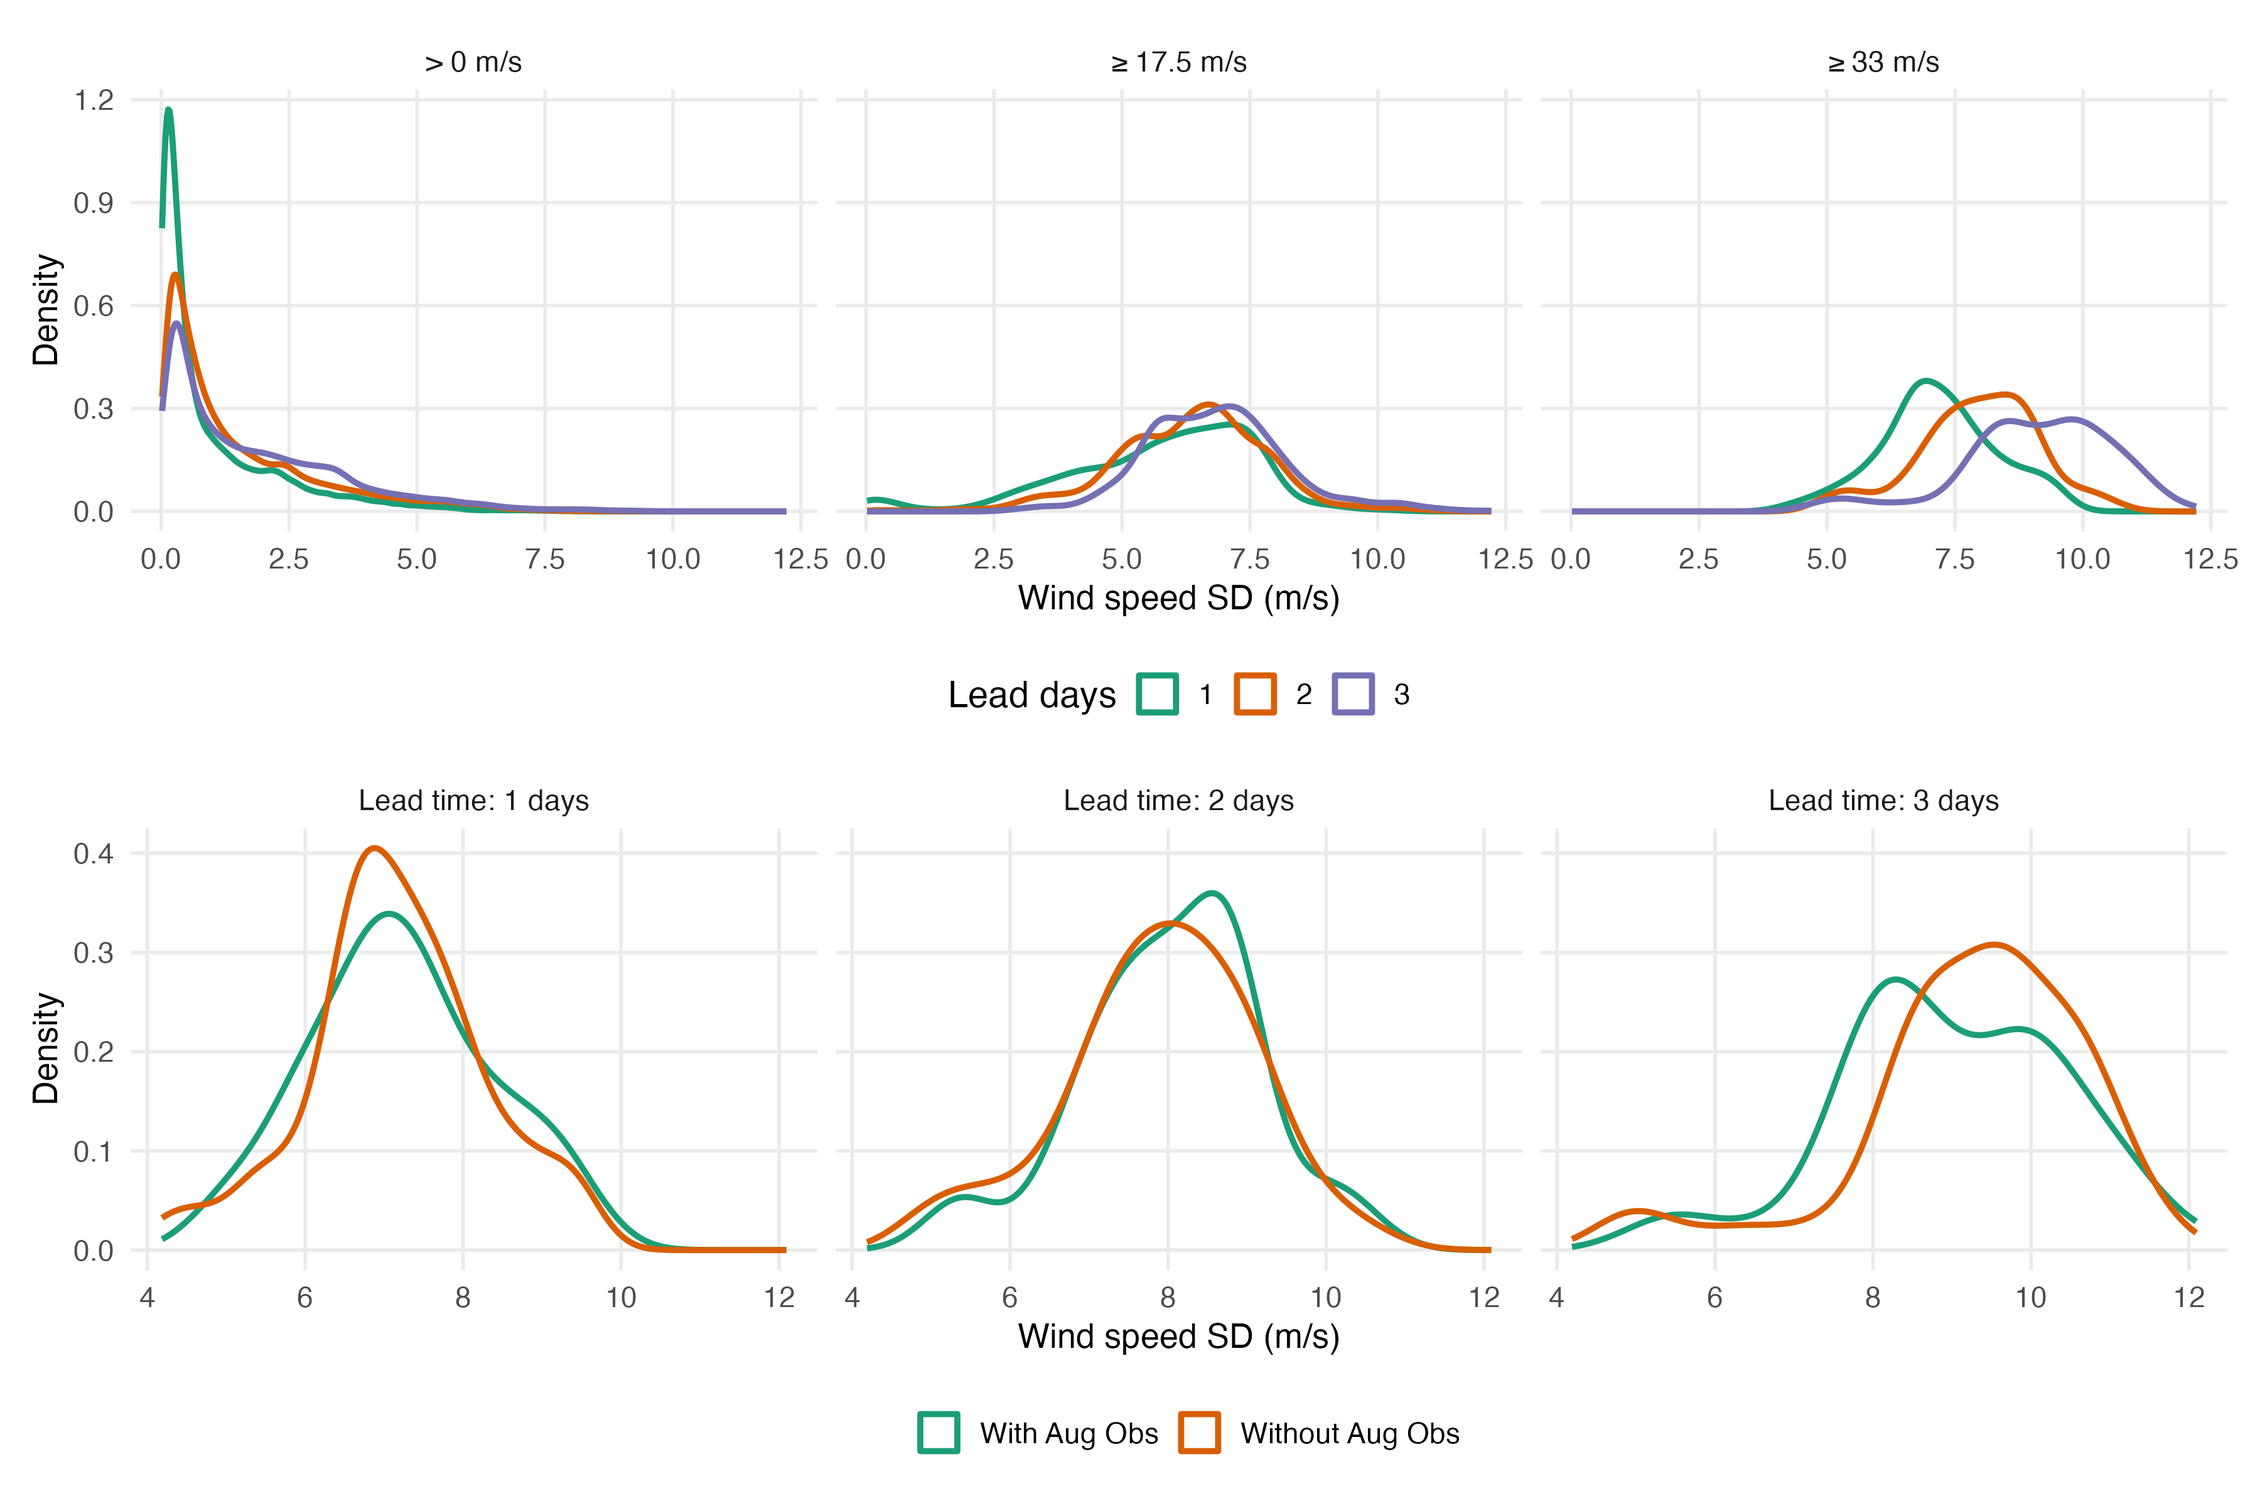
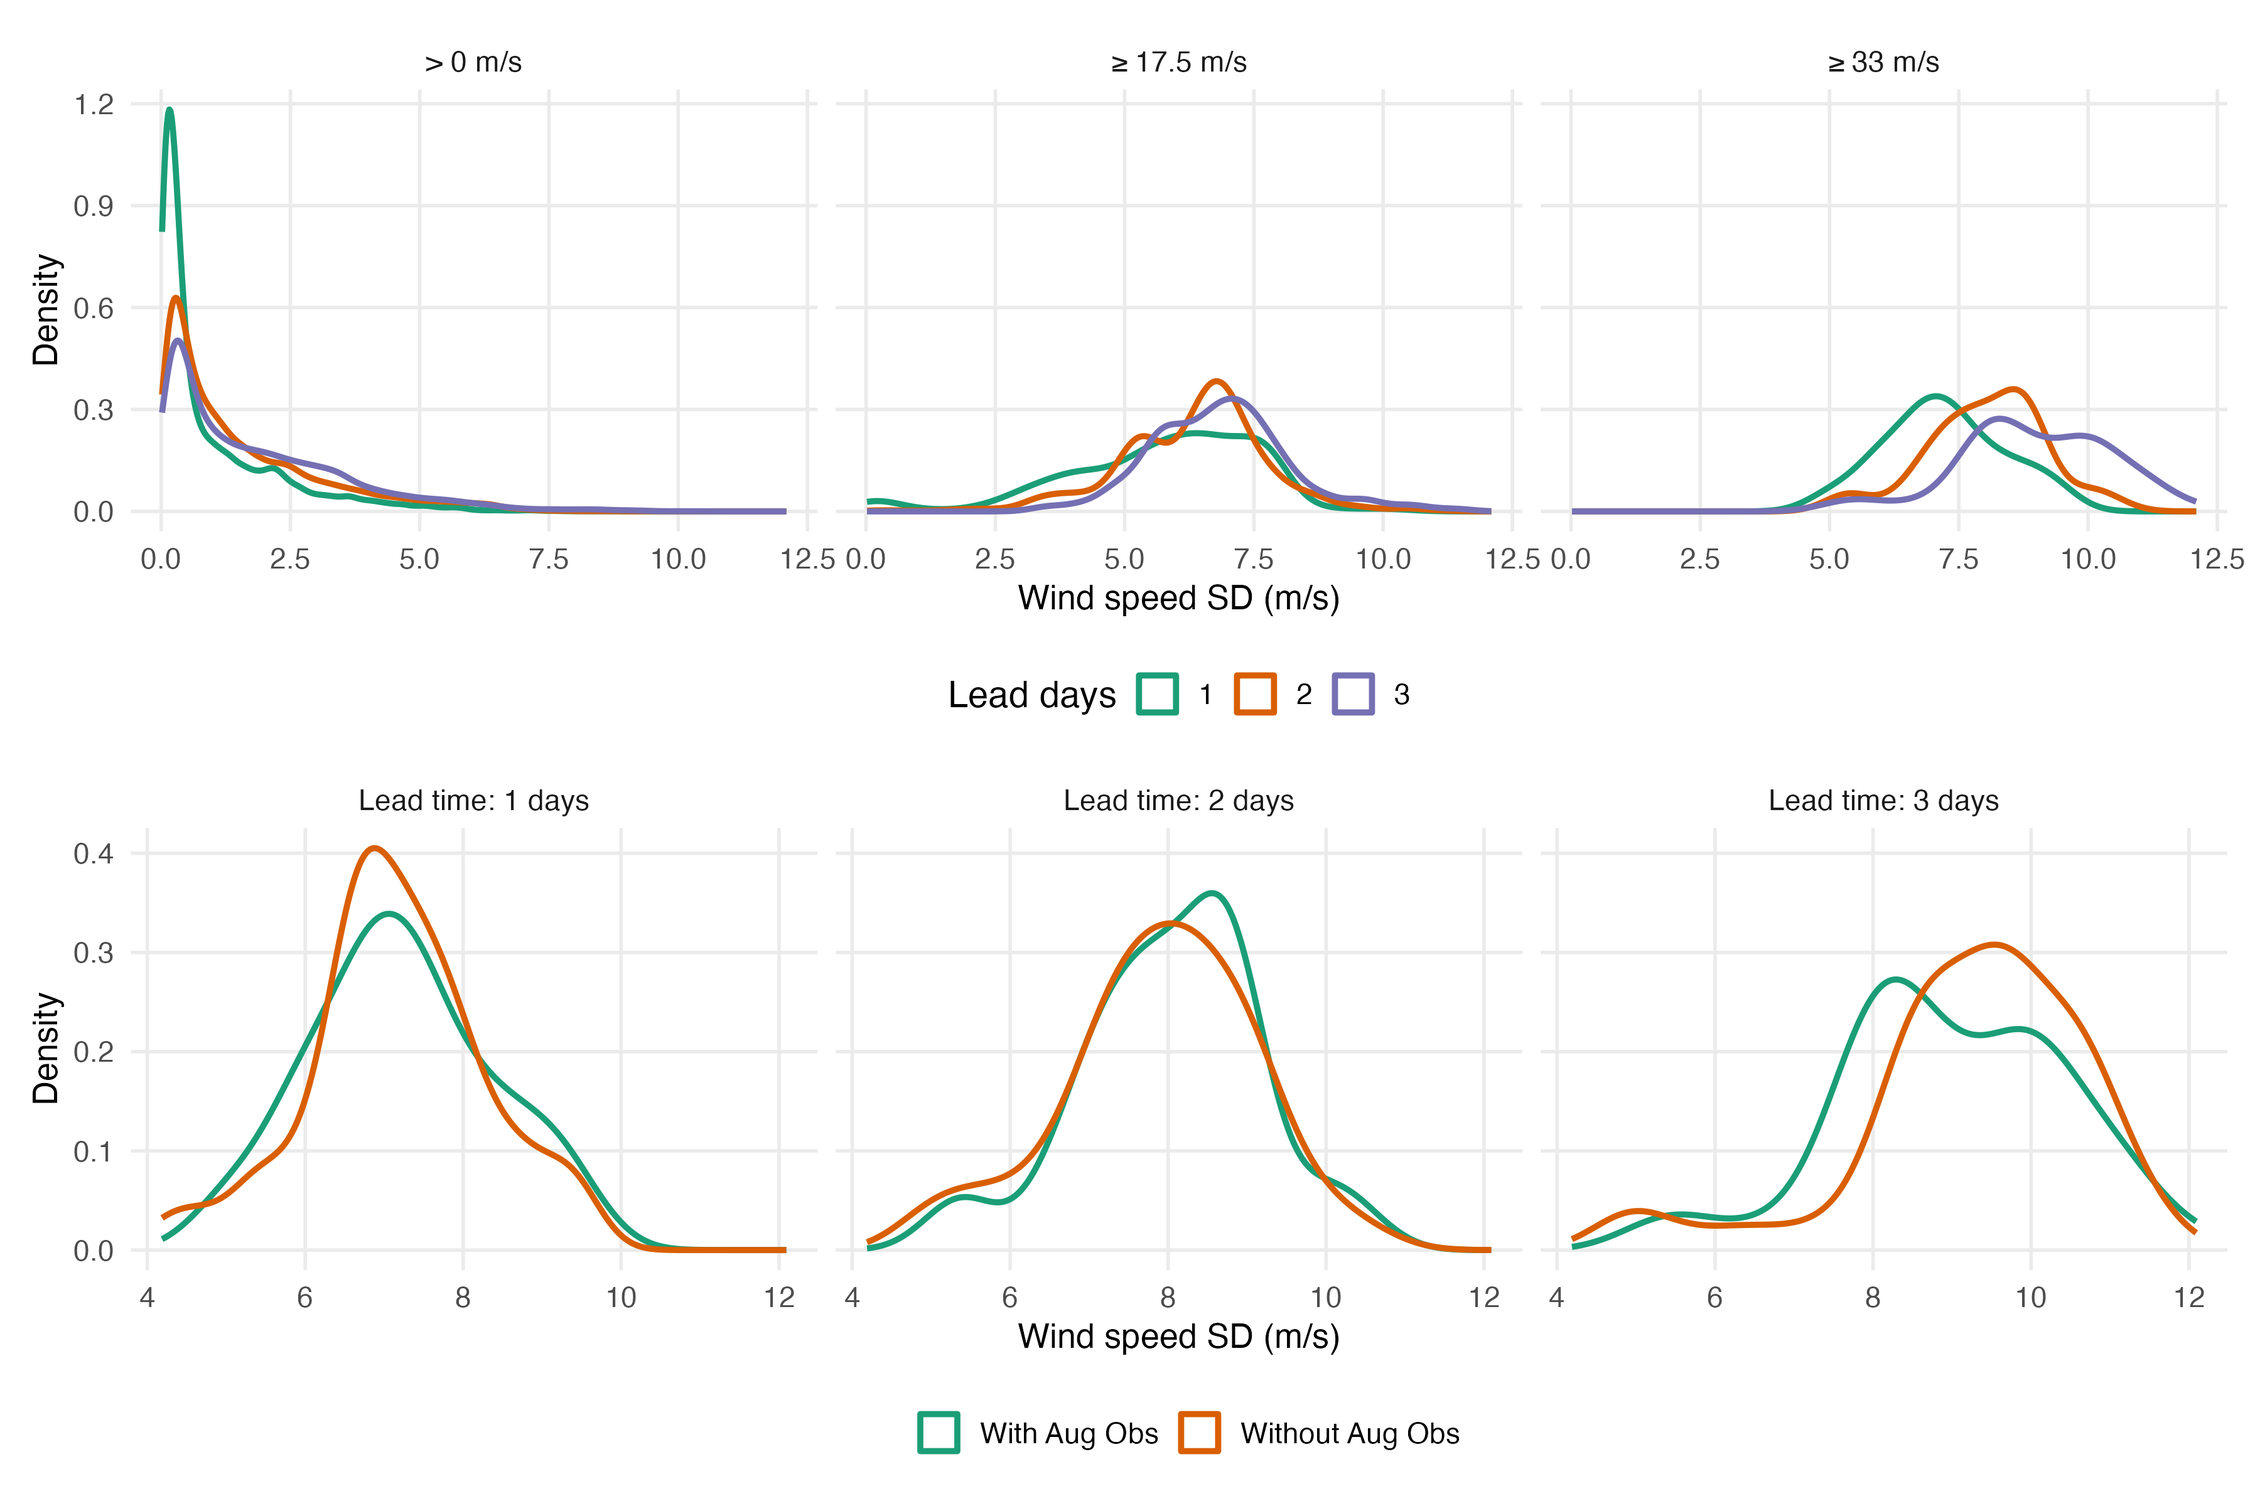
Use ALL-only baseline in uncertainty figure; Table 3 stars; figure write-up
- Top row of the uncertainty figure now uses the ALL (with-AO) operational
  regime instead of pooling the ALL and NO denial runs (code/NOAA_report.r);
  regenerated augmented_panel.png and updated the caption/description and color
  key in both manuscript.tex and NOAA_report.tex
- Add significance stars to the Stage 1 VOI table (Table 3, code/2.0.paper_tables.r)
- Expand the Figure write-up (intensity and lead gradients, AO effect across
  leads) and add Stage 1 robustness cross-references in Section 6.1

diff --git a/augmented_observations/manuscript.tex b/augmented_observations/manuscript.tex
@@ -259,14 +259,12 @@ In the final stage, we monetize the precision gains identified in Stage 2 by app
      V^{AO}_{csh} \;=\; \hat{\beta}^w_{Hurr} \,\left(\sigma_{\text{NO},h}^{2} - \sigma_{\text{ALL},h}^{2}\right).
 \end{equation}
 
-Following the linear approximation established in Section \ref{sec:model}, this calculation simplifies to $V^{AO}_{csh} \approx 2\,\hat{\beta}^w_{Hurr}\times\sigma_{\text{ALL},h}\times\hat{\delta}$. This operational form explicitly highlights how the final monetary benefits scale with a storm's baseline uncertainty under the active observation regime ($\sigma_{\text{ALL},h}$). Expression \eqref{eq:value_calc} provides our direct, empirical estimate of the avoided damages and optimized protective expenditures attributable solely to the information provided by the dropsonde network. Because the expectation over forecasts is approximated by the signals we observe, the resulting value is conditional on the sampled storms being representative of the broader distribution of landfalling hurricanes; a small or atypical set of signals approximates the \emph{ex-ante} expectation imprecisely.
+Following the linear approximation established in Section \ref{sec:model}, this calculation simplifies to $V^{AO}_{csh} \approx 2\,\hat{\beta}^w_{Hurr}\times\sigma_{\text{ALL},h}\times\hat{\delta}$. This operational form explicitly highlights how the final monetary benefits scale with a storm's baseline uncertainty under the active observation regime ($\sigma_{\text{ALL},h}$). Expression \eqref{eq:value_calc} provides our direct, empirical estimate of the avoided damages and optimized protective expenditures attributable solely to the information provided by the dropsonde network. 
 
 %------------------------------------------%
 %       Results
 %------------------------------------------%
 \section{Results} \label{sec:results}
-
-Following the structure outlined in Section \ref{sec:methods}, we present our findings in three stages: the estimation of the marginal cost of forecast errors, the quantification of the physical forecast improvements attributable to AO, and the final valuation of those improvements.
 
 \subsection{Stage 1: The Marginal Cost of Forecast Errors}
 
@@ -274,20 +272,22 @@ We begin by analyzing the empirical relationship between forecast ex-post error 
 
 \input{figures and tables/paper_table_voi}
 
-Column (7) presents our preferred specification, which differentiates exposure to hurricane-force ($\geq33$ m/s) and sub-hurricane-force winds. The empirical results show that the cost of forecast error is driven entirely by high-intensity events. For counties experiencing hurricane-force winds, a one-unit increase in the squared demeaned wind speed error increases total costs (damages plus recovery expenditures) by approximately \$5.03 million (SE = 1.76). In contrast, the effect for sub-hurricane force winds is small and statistically indistinguishable from zero ($\beta = 0.09$).
+Column (7) presents our preferred specification, which differentiates exposure to hurricane-force ($\geq33$ m/s) and sub-hurricane-force winds. The empirical results show that the cost of forecast error is driven entirely by high-intensity events. For counties experiencing hurricane-force winds, a one-unit increase in the squared demeaned wind speed error increases total costs (damages plus recovery expenditures) by approximately \$5.03 million. In contrast, the effect for sub-hurricane force winds is small and statistically indistinguishable from zero.
 
-This finding aligns with the intuition that protective actions and accurate information are most critical when the physical threat is catastrophic. Consequently, for the remainder of the analysis (Stages 2 and 3), we utilize the coefficient $\hat{\beta}^w_{Hurr} = 5.03$ million to value forecast improvements for hurricane-force impacts.
+This finding aligns with the intuition that protective actions and accurate information are most critical when the physical threat is catastrophic. Consequently, for the remainder of the analysis (Stages 2 and 3), we utilize the coefficient $\hat{\beta}^w_{Hurr} = 5.03$ million to value forecast improvements for hurricane-force impacts. Appendices \ref{app:beta} and \ref{app:3day} show robustness to alternative cost outcomes, the exclusion of individual storms, and using 3-day-ahead forecasts. 
 
 \subsection{Stage 2: AO and Forecast Precision}
 
-We now report the precision gain that augmented observations deliver, estimated from the data-denial experiments of \citet{DitchekEA2023}.
+For this stage, we begin by describing how forecast uncertainty varies with storm intensity, lead time, and augmented observations. The top row of Figure \ref{fig:uncertainty_panels} plots, for the operational forecasts that assimilate augmented observations, the distribution across counties of the ex-ante forecast wind-speed standard deviation ($\sigma$), colored by lead time and stratified by realized intensity. At low intensities (the $>0$ m/s panel, which is dominated by counties with weak or no wind), $\sigma$ is small, tightly concentrated near zero, and essentially flat across lead times: weak exposures are easy to predict and leave little uncertainty to resolve. 
 
-Figure \ref{fig:uncertainty_panels} provides a comprehensive view of the forecast uncertainty environment. The top row characterizes the baseline uncertainty: for hurricane-force events ($\geq33$ m/s), the ex-ante forecast standard deviation ($\sigma$) is significantly higher and grows rapidly as lead time increases (shifting right from 1 to 3 days). This confirms that high-impact storms have a lower signal-to-noise ratio at longer lead times.
+As the intensity threshold rises the distribution shifts and widens, modestly at tropical-storm force ($\geq17.5$ m/s) and sharply at hurricane force ($\geq33$ m/s), where $\sigma$ is centered at much higher values. The lead-time gradient strengthens in tandem: for hurricane-force events the distribution moves visibly rightward from the 1-day to the 3-day lead, whereas for weak exposures the lead curves are nearly indistinguishable. Forecast uncertainty is therefore concentrated exactly where it is most costly, in high-intensity storms at longer lead times.
+
+Building from this observation, the bottom row isolates the contribution of augmented observations, comparing the $\sigma$ distribution for hurricane-force winds with and without AO at each lead. At the 1-day lead the two distributions almost coincide, leaving little scope for additional information to sharpen the forecast. The gap widens as the lead lengthens, and at the 3-day lead the with-AO distribution is clearly shifted toward lower $\sigma$ than the without-AO distribution. Augmented observations thus deliver their largest precision gains at the longer leads, when baseline uncertainty is greatest, motivating the focus on the 3-day lead in the analysis that follows.
 
 \begin{figure}[htbp]
     \centering
     \includegraphics[width=1.0\textwidth]{figures and tables/augmented_panel.png}
-    \caption{\textbf{Forecast Uncertainty Dynamics and the Impact of Augmented Observations.} \textit{Top Row:} Kernel density estimates of forecast wind speed ex-ante standard deviation ($\sigma$) by lead time (Red=1 day, Blue=2 days, Green=3 days), stratified by storm intensity. \textit{Bottom Row:} The specific impact on ex-ante standard deviation of AO for hurricane-force winds ($\geq33$ m/s).}
+    \caption{\textbf{Forecast Uncertainty Dynamics and the Impact of Augmented Observations.} \textit{Top row:} Kernel density estimates of the ex-ante forecast wind-speed standard deviation ($\sigma$) across counties, for the operational forecasts that assimilate augmented observations (the ALL configuration), by lead time (1 day in teal, 2 days in orange, 3 days in purple) and stratified by realized intensity ($>0$, $\geq17.5$, and $\geq33$ m/s). \textit{Bottom row:} the distribution of $\sigma$ for hurricane-force winds ($\geq33$ m/s) with augmented observations (teal) and without (orange), at the 1, 2, and 3 day leads.}
     \label{fig:uncertainty_panels}
 \end{figure}
 

diff --git a/augmented_observations/figures and tables/paper_table_voi.tex b/augmented_observations/figures and tables/paper_table_voi.tex
@@ -10,25 +10,25 @@
 \midrule
 \addlinespace[0.5em]
 \multicolumn{8}{l}{\textit{Damages + Recovery Expenditures (million \$)}}\\
-\midrule \hspace{1em}$\beta_2: (e - \mu)^2$ & 3.74 & 3.73 & 3.25 & 3.26 & 3.75 & 3.65 & \\
+\midrule \hspace{1em}$\beta_2: (e - \mu)^2$ & 3.74*** & 3.73*** & 3.25*** & 3.26*** & 3.75*** & 3.65*** & \\
 \hspace{1em} & (1.32) & (1.32) & (1.06) & (1.00) & (1.34) & (1.19) & \\
-\hspace{1em}$\text{Hurricane } \beta_2: (e - \mu)^2$ &  &  &  &  &  &  & 5.03\\
+\hspace{1em}$\text{Hurricane } \beta_2: (e - \mu)^2$ &  &  &  &  &  &  & 5.03***\\
 \hspace{1em} &  &  &  &  &  &  & (1.76)\\
 \hspace{1em}$\text{Sub-Hurricane } \beta_2: (e - \mu)^2$ &  &  &  &  &  &  & 0.09\\
 \hspace{1em} &  &  &  &  &  &  & (0.33)\\
 \addlinespace[0.5em]
 \multicolumn{8}{l}{\textit{(Damages + Recovery Expenditures) / GDP (\%)}}\\
-\midrule \hspace{1em}$\beta_2: (e - \mu)^2$ & 0.20 & 0.21 & 0.18 & 0.18 & 0.18 & 0.18 & \\
+\midrule \hspace{1em}$\beta_2: (e - \mu)^2$ & 0.20*** & 0.21*** & 0.18*** & 0.18*** & 0.18*** & 0.18*** & \\
 \hspace{1em} & (0.06) & (0.06) & (0.05) & (0.05) & (0.05) & (0.05) & \\
-\hspace{1em}$\text{Hurricane } \beta_2: (e - \mu)^2$ &  &  &  &  &  &  & 0.28\\
+\hspace{1em}$\text{Hurricane } \beta_2: (e - \mu)^2$ &  &  &  &  &  &  & 0.28***\\
 \hspace{1em} &  &  &  &  &  &  & (0.07)\\
 \hspace{1em}$\text{Sub-Hurricane } \beta_2: (e - \mu)^2$ &  &  &  &  &  &  & 0.00\\
 \hspace{1em} &  &  &  &  &  &  & (0.01)\\
 \addlinespace[0.5em]
 \multicolumn{8}{l}{\textit{Damages + Recovery Expenditures Per Capita (\$/person)}}\\
-\midrule \hspace{1em}$\beta_2: (e - \mu)^2$ & 83.85 & 85.02 & 73.31 & 74.75 & 78.81 & 82.45 & \\
+\midrule \hspace{1em}$\beta_2: (e - \mu)^2$ & 83.85*** & 85.02*** & 73.31*** & 74.75*** & 78.81*** & 82.45*** & \\
 \hspace{1em} & (23.18) & (23.44) & (19.48) & (19.25) & (23.49) & (21.77) & \\
-\hspace{1em}$\text{Hurricane } \beta_2: (e - \mu)^2$ &  &  &  &  &  &  & 113.47\\
+\hspace{1em}$\text{Hurricane } \beta_2: (e - \mu)^2$ &  &  &  &  &  &  & 113.47***\\
 \hspace{1em} &  &  &  &  &  &  & (28.41)\\
 \hspace{1em}$\text{Sub-Hurricane } \beta_2: (e - \mu)^2$ &  &  &  &  &  &  & 2.28\\
 \hspace{1em} &  &  &  &  &  &  & (3.28)\\
@@ -44,7 +44,7 @@ County-Year FE &  &  &  &  & \checkmark & \checkmark & \\
 \bottomrule
 \end{tabular}
 \begin{tablenotes}
-\item Standard errors are Conley Spatial HAC with a distance radius of 400 km for spatial correlation
+\item * p $<$ 0.1, ** p $<$ 0.05, *** p $<$ 0.01 Standard errors are Conley Spatial HAC with a distance radius of 400 km for spatial correlation
      and arbitrary autocorrelation within counties. $e$ is the county-hurricane-specific forecast
      error, and $\mu$ is the hurricane-intensity bin-specific mean forecast error. Hurricane wind
      speeds are those greater than 33 m/s (74 mph), while Sub-Hurricane wind speeds fall below that

diff --git a/augmented_observations/NOAA_report.tex b/augmented_observations/NOAA_report.tex
@@ -270,12 +270,12 @@ This finding aligns with the intuition that protective actions and accurate info
 
 In the second stage, we quantify the physical contribution of augmented observations to forecast precision. We utilize the data denial experiments from \citet{DitchekEA2023} to isolate the reduction in forecast noise attributable to the assimilation of dropsondes.
 
-Figure \ref{fig:uncertainty_panels} provides a comprehensive view of the forecast uncertainty environment. The top row characterizes the baseline uncertainty: for hurricane-force events ($\geq33$ m/s), the ex-ante forecast standard deviation ($\sigma$) is significantly higher and grows rapidly as lead time increases (shifting right from 1 to 3 days). This confirms that high-impact storms have a lower signal-to-noise ratio at longer lead times.
+Figure \ref{fig:uncertainty_panels} provides a comprehensive view of the forecast uncertainty environment. The top row characterizes the baseline uncertainty under the operational regime that assimilates augmented observations: for hurricane-force events ($\geq33$ m/s), the ex-ante forecast standard deviation ($\sigma$) is significantly higher and grows rapidly as lead time increases (shifting right from 1 to 3 days), whereas for weak exposures it stays small and nearly flat across leads. This confirms that high-impact storms have a lower signal-to-noise ratio at longer lead times.
 
 \begin{figure}[htbp]
     \centering
     \includegraphics[width=1.0\textwidth]{figures and tables/augmented_panel.png}
-    \caption{\textbf{Forecast Uncertainty Dynamics and the Impact of Augmented Observations.} \textit{Top Row:} Kernel density estimates of forecast wind speed ex-ante standard deviation ($\sigma$) by lead time (Red=1 day, Blue=2 days, Green=3 days), stratified by storm intensity. \textit{Bottom Row:} The specific impact on ex-ante standard deviation of augmented observations for hurricane-force winds ($\geq33$ m/s).}
+    \caption{\textbf{Forecast Uncertainty Dynamics and the Impact of Augmented Observations.} \textit{Top row:} Kernel density estimates of the ex-ante forecast wind-speed standard deviation ($\sigma$) for the operational forecasts that assimilate augmented observations (the ALL configuration), by lead time (1 day in teal, 2 days in orange, 3 days in purple) and stratified by realized intensity ($>0$, $\geq17.5$, and $\geq33$ m/s). \textit{Bottom row:} the distribution of $\sigma$ for hurricane-force winds ($\geq33$ m/s) with augmented observations (teal) and without (orange), at the 1, 2, and 3 day leads.}
     \label{fig:uncertainty_panels}
 \end{figure}
 
